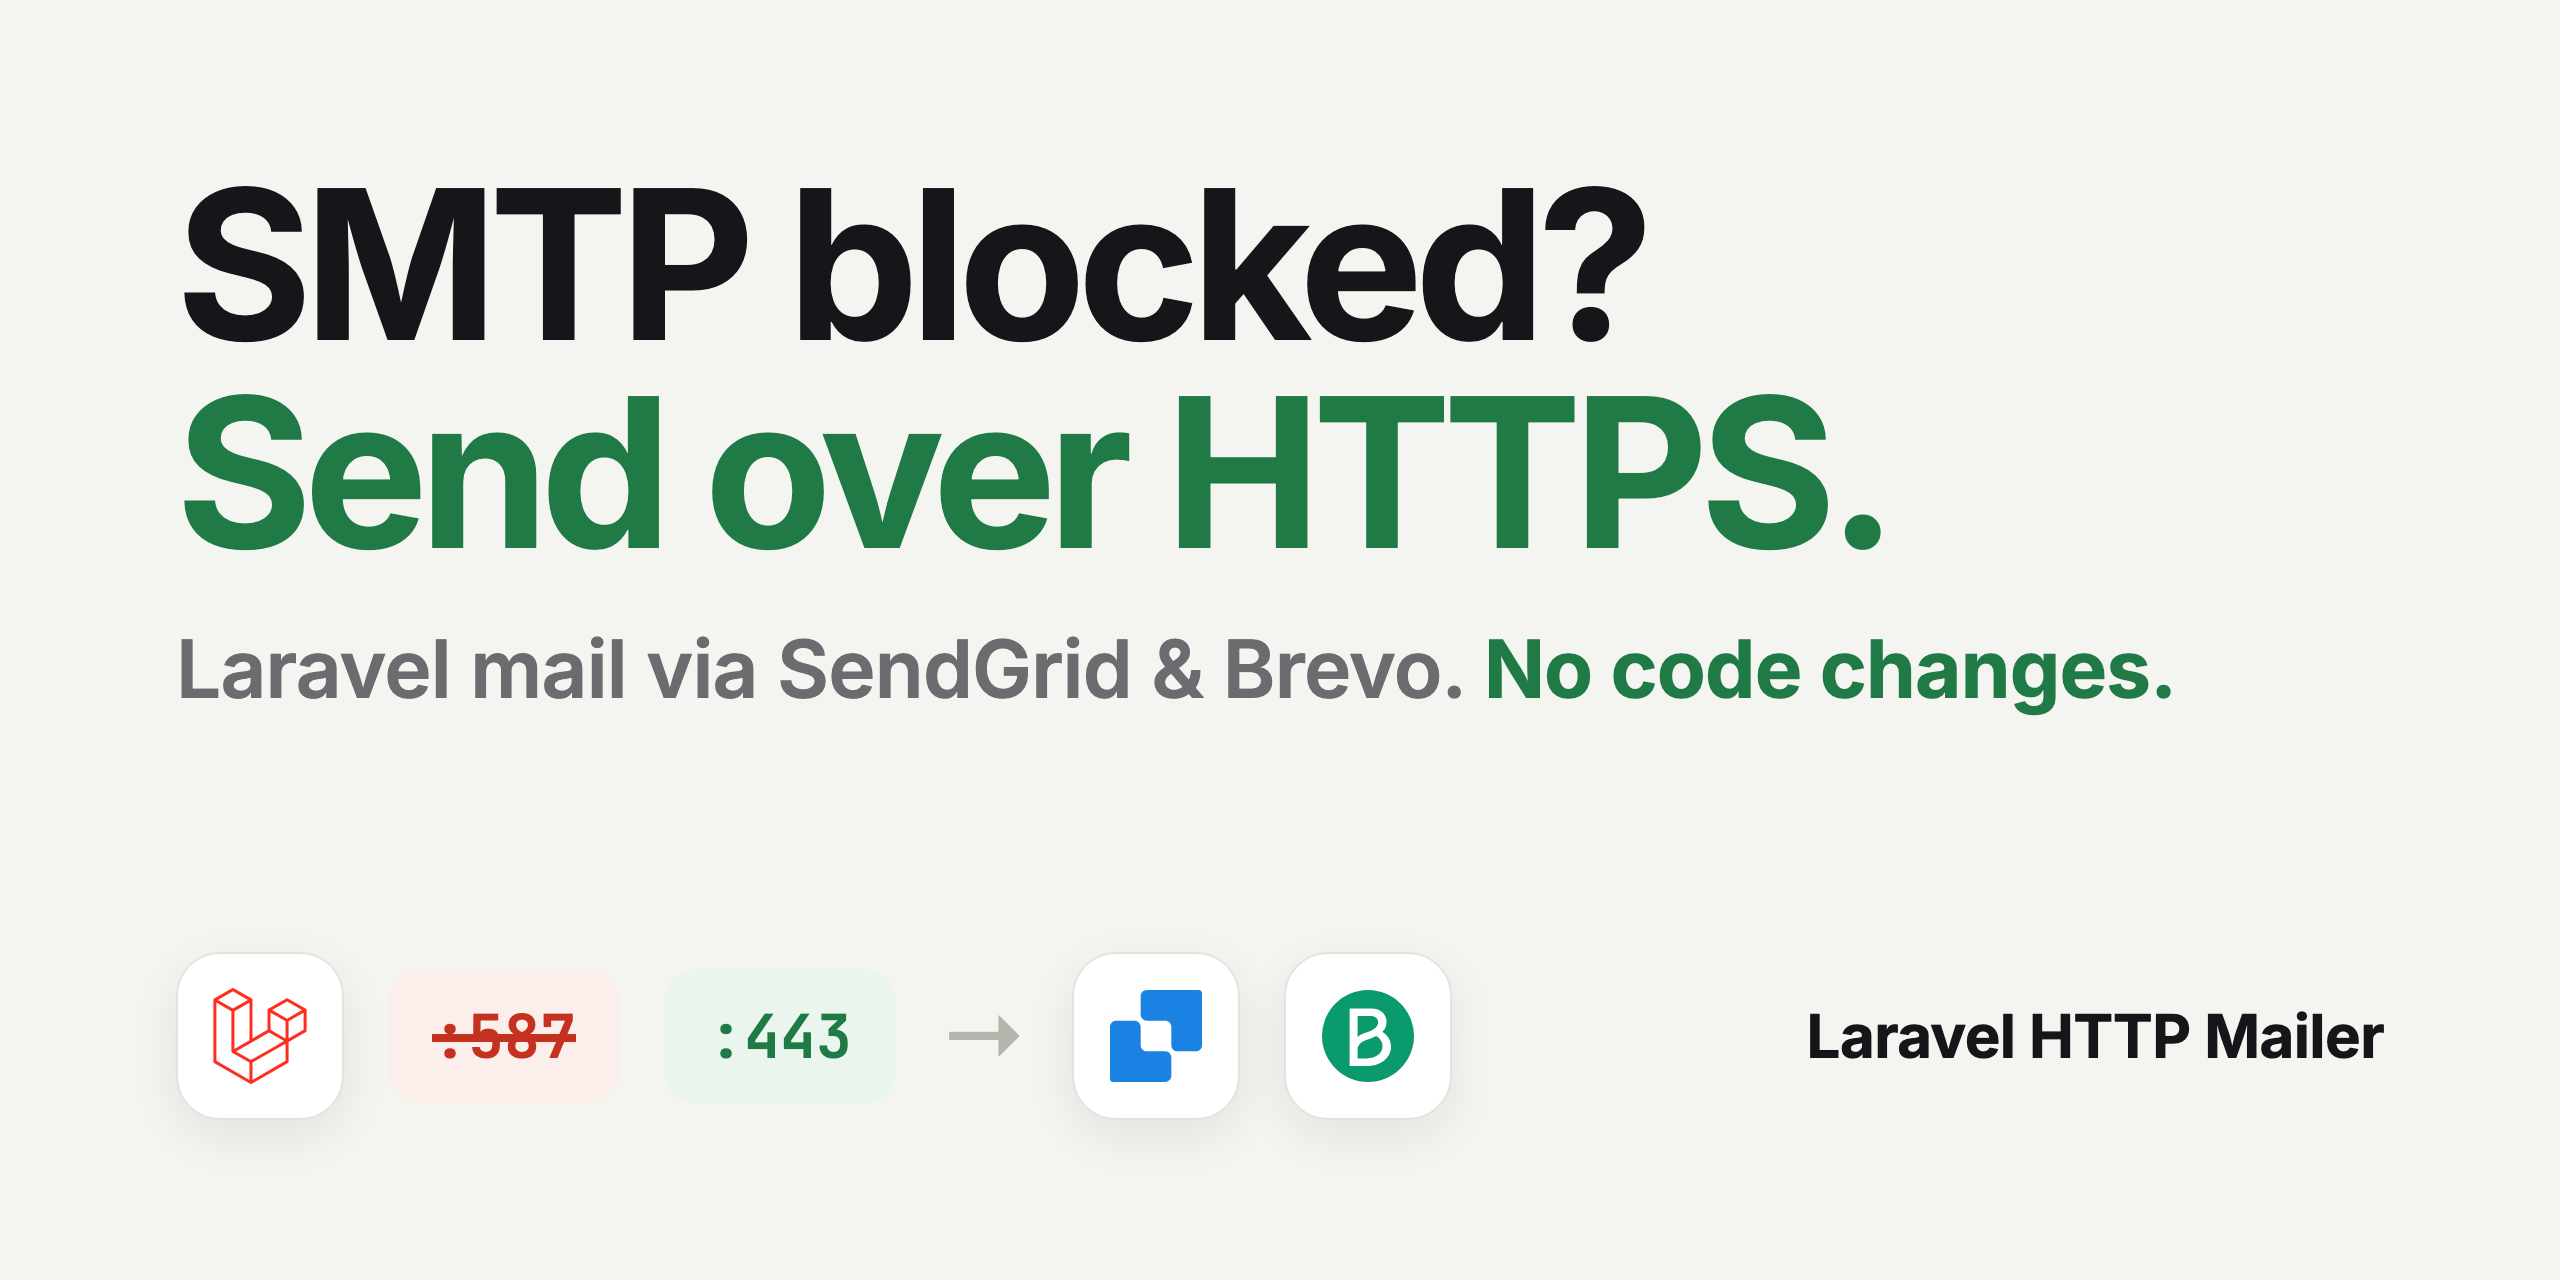
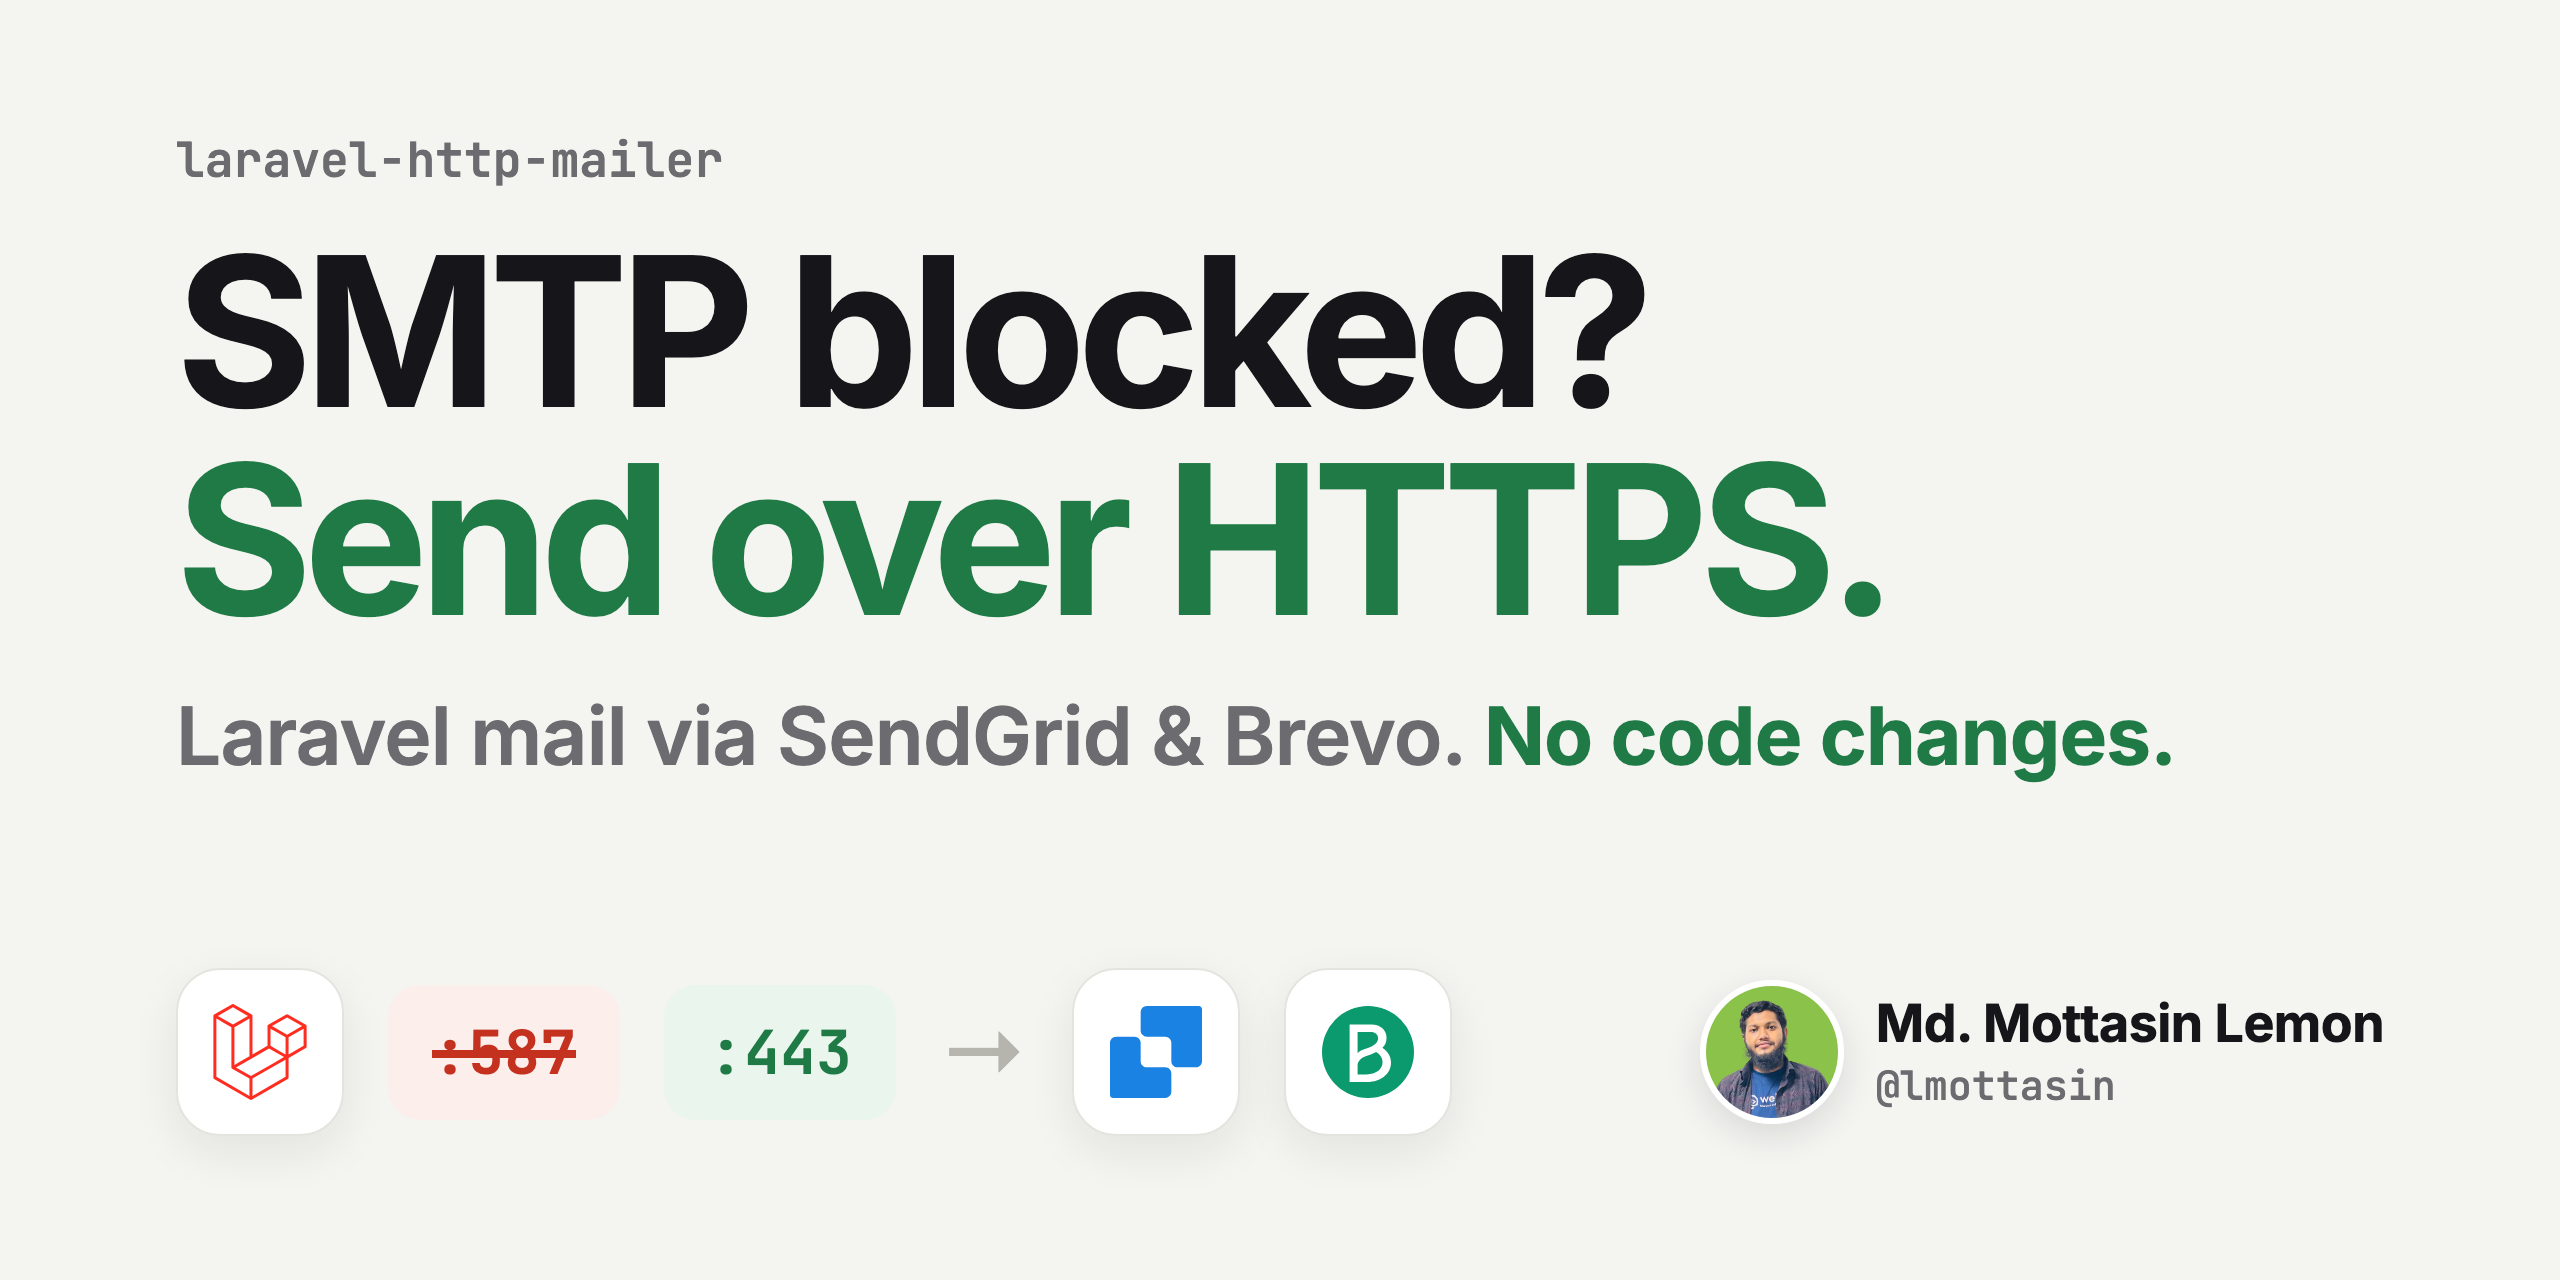
Social preview: add author

diff --git a/art/src/social.html b/art/src/social.html
@@ -5,9 +5,13 @@
 <link rel="stylesheet" href="src/base.css">
 <style>
   /* Social preview: 1280x640, viewed at ~500px wide, so everything is oversized. Content stays inside a 80px safe margin. */
-  body { width: 1280px; height: 640px; padding: 80px 88px; display: flex; flex-direction: column; justify-content: space-between; overflow: hidden; }
+  body { width: 1280px; height: 640px; padding: 64px 88px 72px; display: flex; flex-direction: column; justify-content: space-between; overflow: hidden; }
   .top { display: flex; align-items: center; gap: 18px; }
-  .brand { margin-left: auto; font-size: 30px; font-weight: 700; letter-spacing: -.01em; }
+  .brand { font: 600 24px "JetBrains Mono"; color: var(--muted); margin-bottom: 18px; }
+  .author { margin-left: auto; display: flex; align-items: center; gap: 16px; }
+  .author img { width: 72px; height: 72px; border-radius: 50%; border: 3px solid #fff; box-shadow: 0 6px 18px rgba(27,27,31,.12); }
+  .author .n { font-size: 26px; font-weight: 700; letter-spacing: -.01em; }
+  .author .u { font: 500 20px "JetBrains Mono"; color: var(--muted); margin-top: 2px; }
   h1 { font-size: 104px; line-height: 1; font-weight: 800; letter-spacing: -.04em; }
   h1 span { color: var(--green); }
   .tagline { font-size: 40px; font-weight: 600; color: var(--muted); letter-spacing: -.01em; margin-top: 22px; }
@@ -22,6 +26,7 @@
 </head>
 <body>
   <div>
+    <div class="brand">laravel-http-mailer</div>
     <h1>SMTP blocked?<br><span>Send over HTTPS.</span></h1>
     <div class="tagline">Laravel mail via SendGrid &amp; Brevo. <b>No code changes.</b></div>
   </div>
@@ -33,7 +38,10 @@
     <span class="arrow">→</span>
     <div class="ic">{{icon:sendgrid:1a82e2:46}}</div>
     <div class="ic">{{icon:brevo:0b996e:46}}</div>
-    <div class="brand">Laravel HTTP Mailer</div>
+    <div class="author">
+      <img src="avatar.png" alt="">
+      <div><div class="n">Md. Mottasin Lemon</div><div class="u">@lmottasin</div></div>
+    </div>
   </div>
 </body>
 </html>
